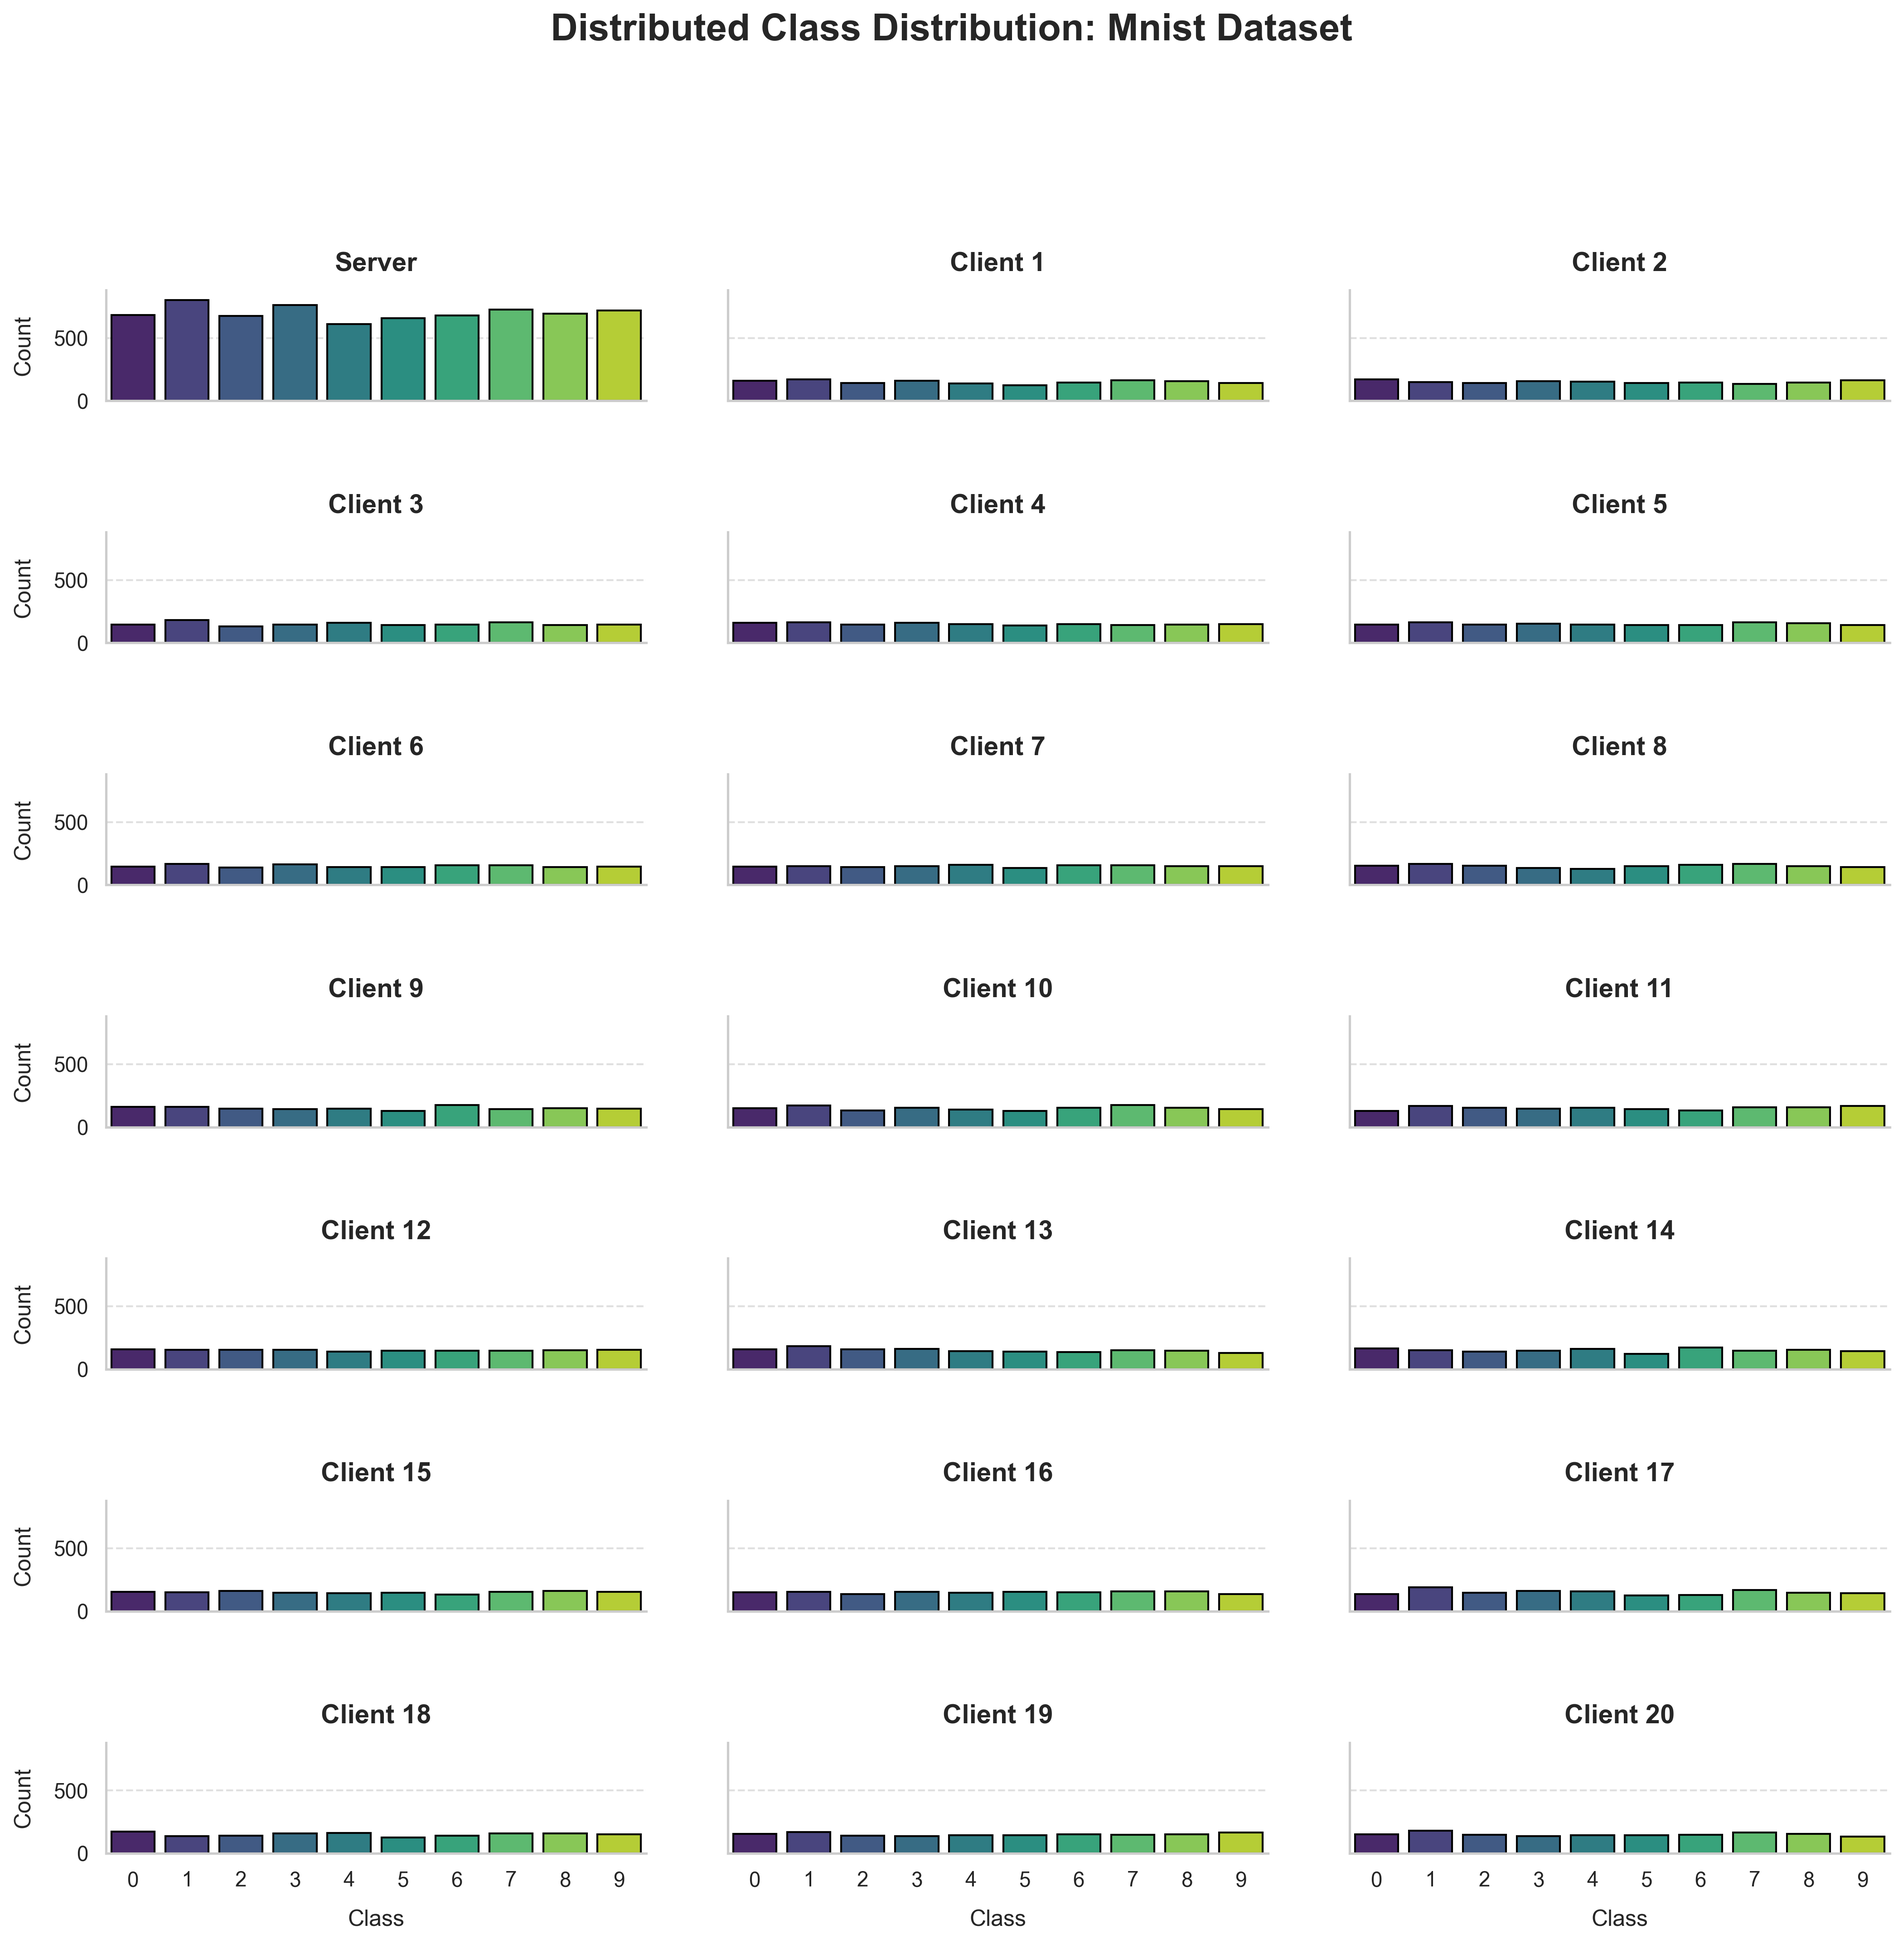
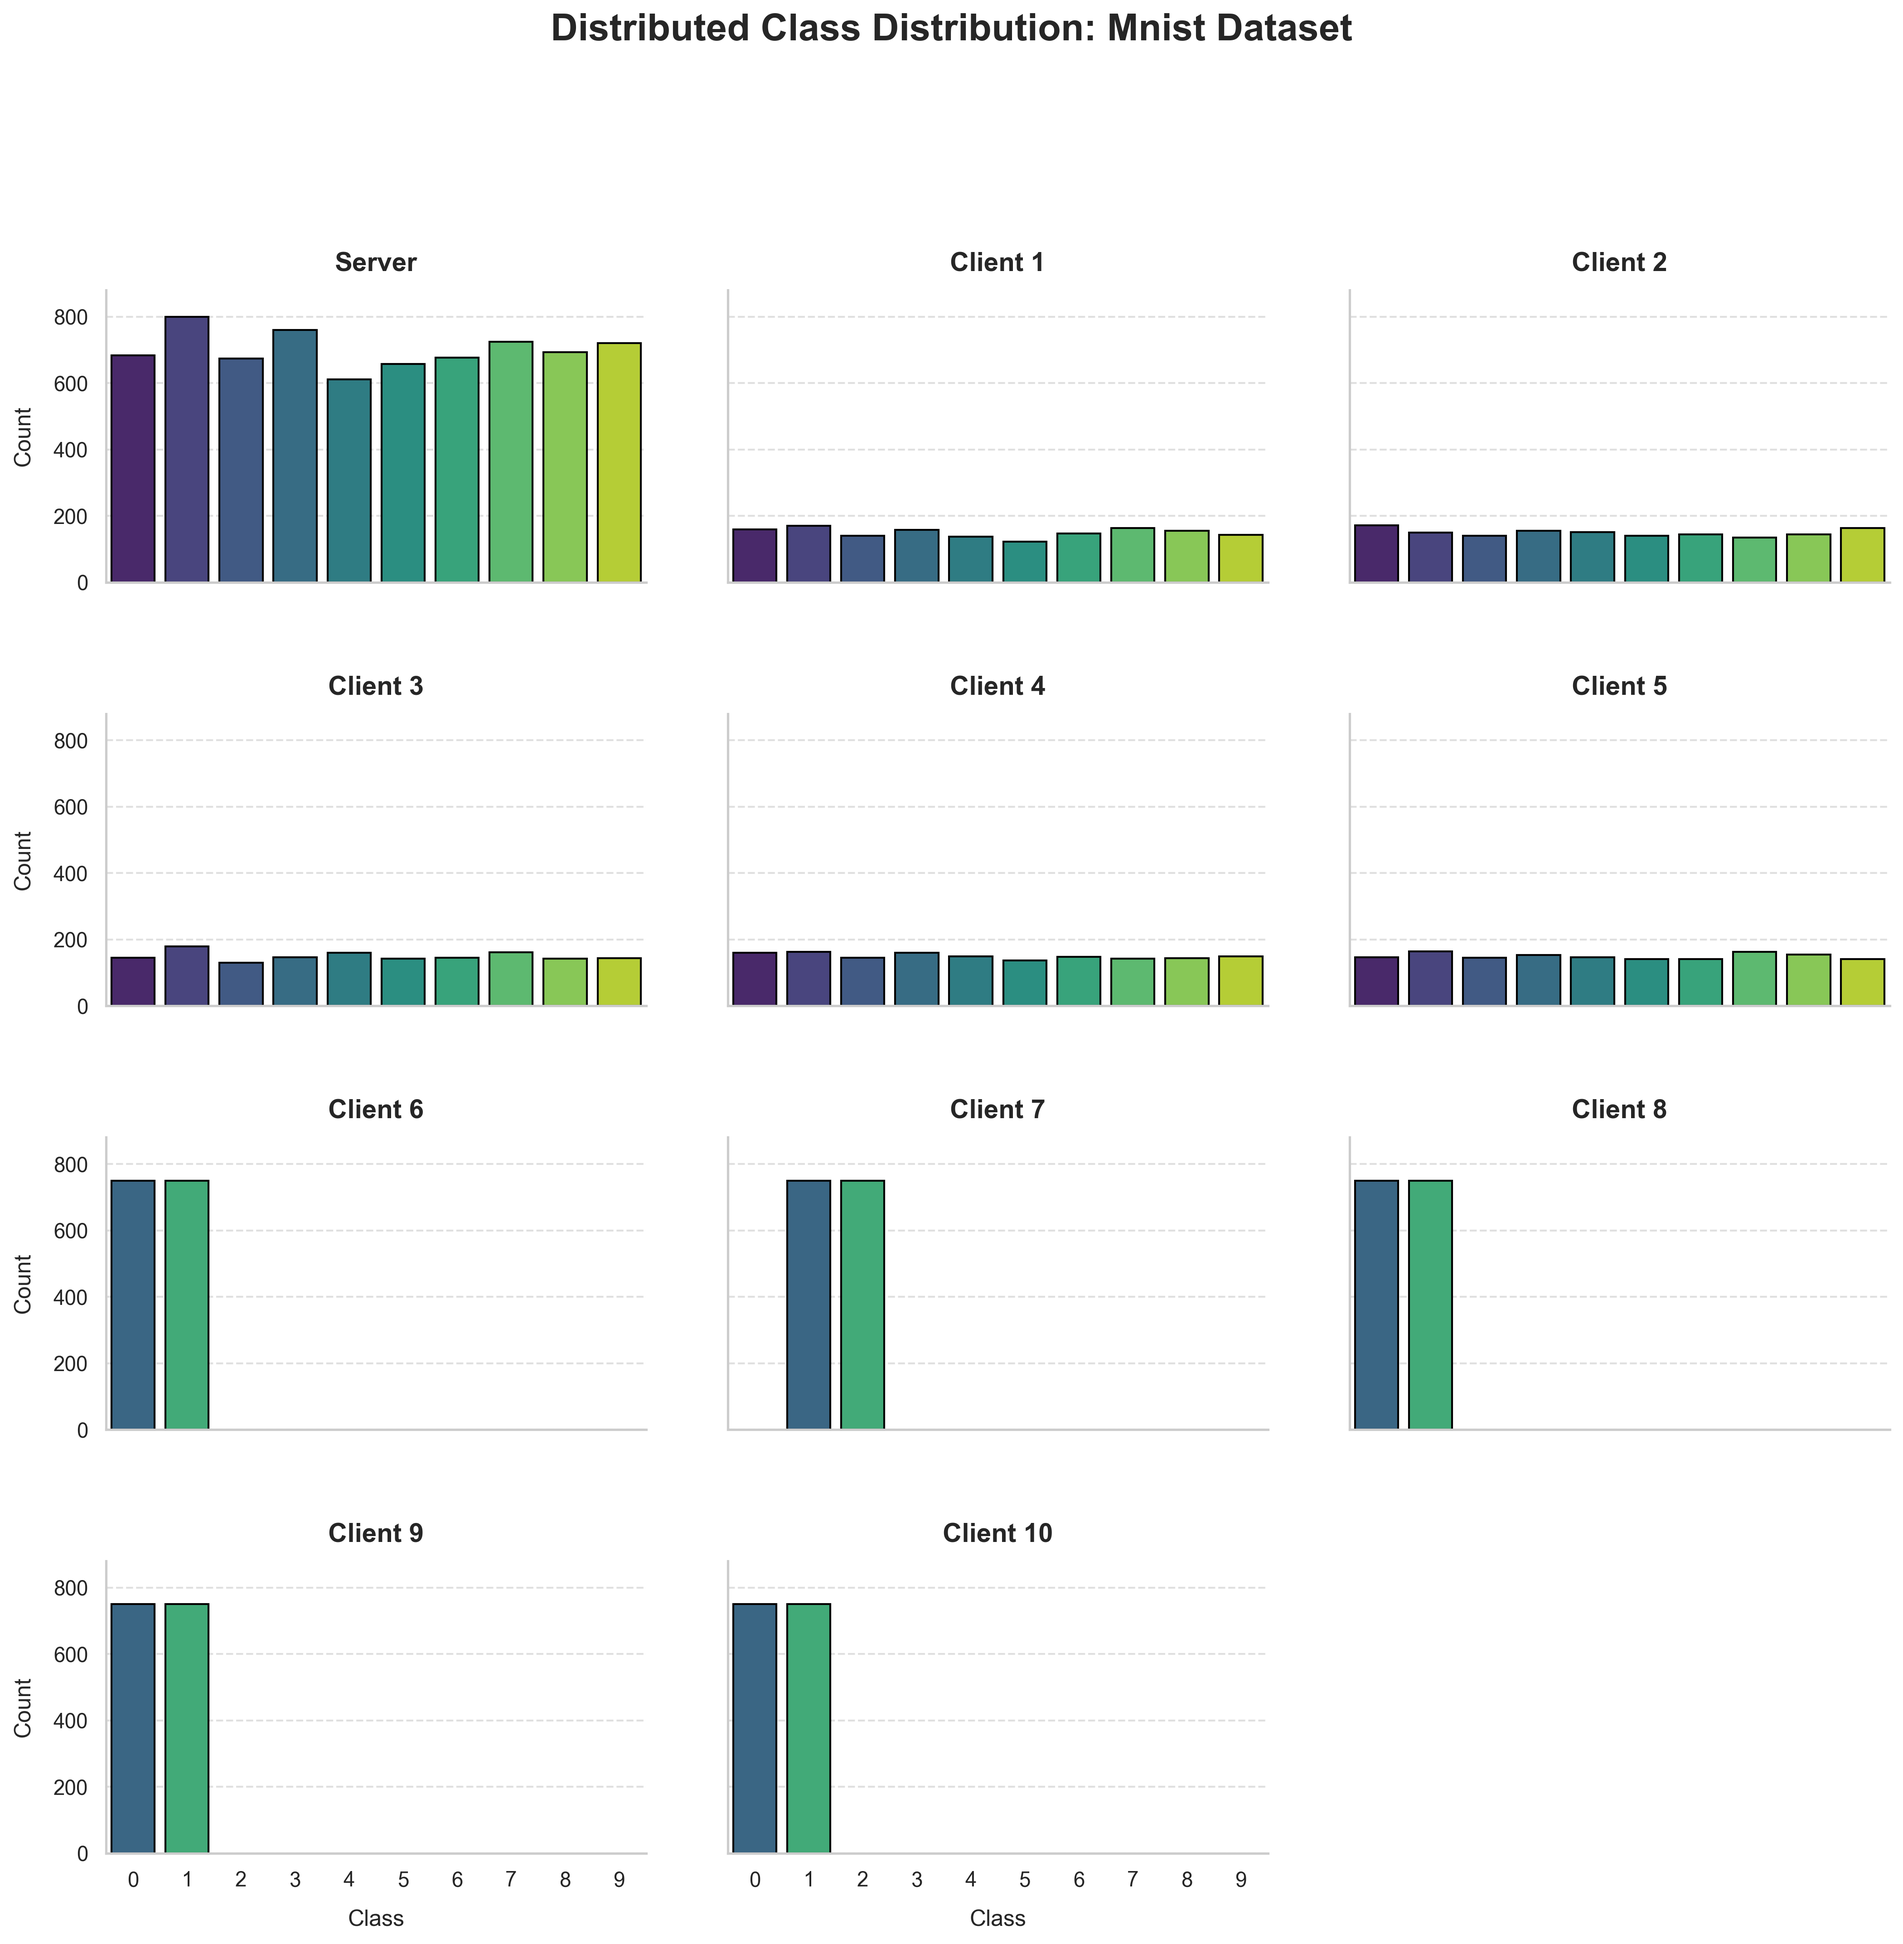
sharding code done

diff --git a/src/setup/setup.py b/src/setup/setup.py
@@ -97,11 +97,6 @@ def create_folders_and_distribute_data(n, IID, NonIID, x, data_folder=setup_fold
         test_data.to_csv(server_data_folder / dataset_file, index=False)
         
         if dataset_file == 'diabetes_dataset.csv':
-            # # Split the remaining data equally among the clients
-            # client_data_splits = np.array_split(train_data, n)
-            # for i, client_data in enumerate(client_data_splits, start=1):
-            #     client_data_folder = clients_folder / str(i) / "data"
-            #     client_data.to_csv(client_data_folder / dataset_file, index=False)
             for i in range(1, n + 1):
                 client_sample = train_data.sample(n=num_data_points_diabetes, random_state=42 + i)
                 client_data_folder = clients_folder / str(i) / "data"
@@ -110,22 +105,20 @@ def create_folders_and_distribute_data(n, IID, NonIID, x, data_folder=setup_fold
         else:
             # Identify label column and unique classes in the dataset
             label_column = data.columns[-1]
-            unique_classes = np.unique(train_data[label_column])
+            sorted_data = train_data.sort_values(by=label_column)
+            total_shards = n * x
+            shard_size = num_data_points // x
+            shards = [sorted_data.iloc[i * shard_size: (i + 1) * shard_size] for i in range(total_shards)]
+            rng = np.random.RandomState(42)
+            shard_indices = rng.permutation(total_shards)
             
             for i in range(1, n + 1):
                 if i <= IID:
                     client_sample = train_data.sample(n=num_data_points, random_state=42 + i)
                 else:
-                    # Non-IID: randomly select a single class for this client.
-                    selected_class = np.random.choice(unique_classes)
-                    subset = train_data[train_data[label_column] == selected_class]
-
-                    replace_flag = len(subset) < num_data_points
-                    client_sample = subset.sample(n=num_data_points, replace=replace_flag, random_state=42 + i)
+                    client_shards = [shards[shard_indices[(i - 1) * x + j]] for j in range(x)]
+                    client_sample = pd.concat(client_shards)
                 
-                client_data_folder = clients_folder / str(i) / "data"
-                client_sample.to_csv(client_data_folder / dataset_file, index=False)
-                    
                 client_data_folder = clients_folder / str(i) / "data"
                 client_sample.to_csv(client_data_folder / dataset_file, index=False)
 
